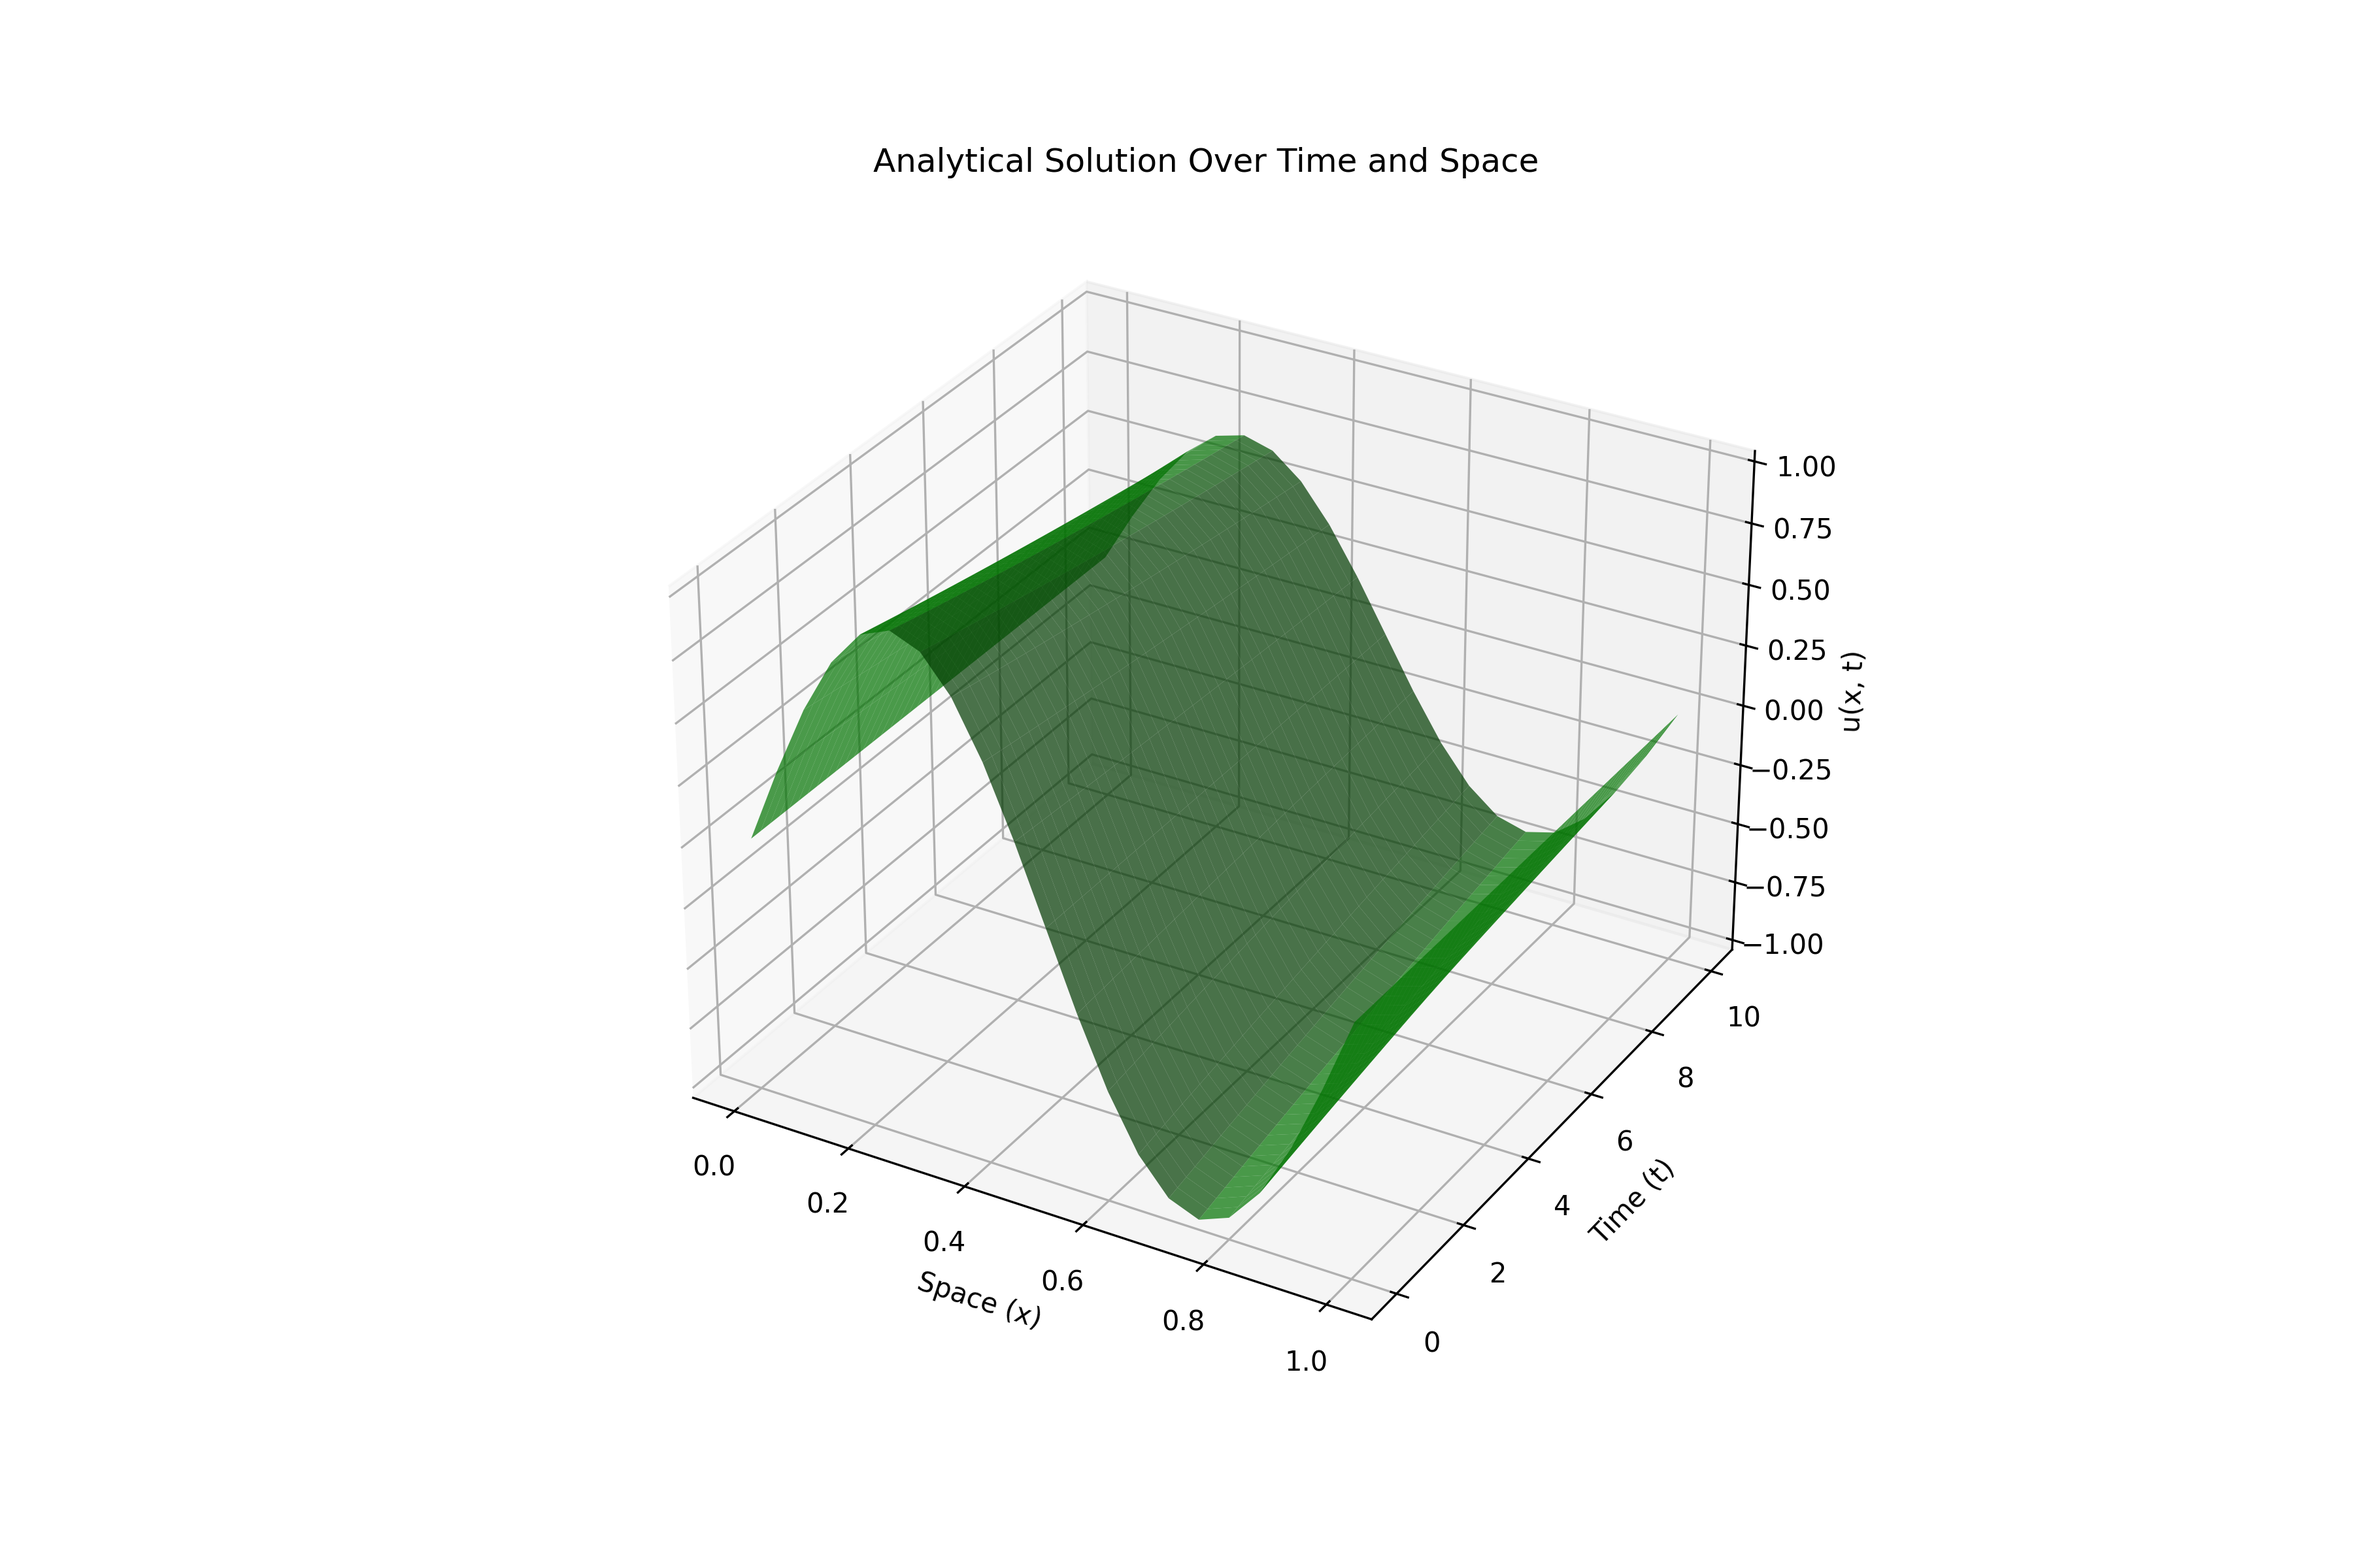
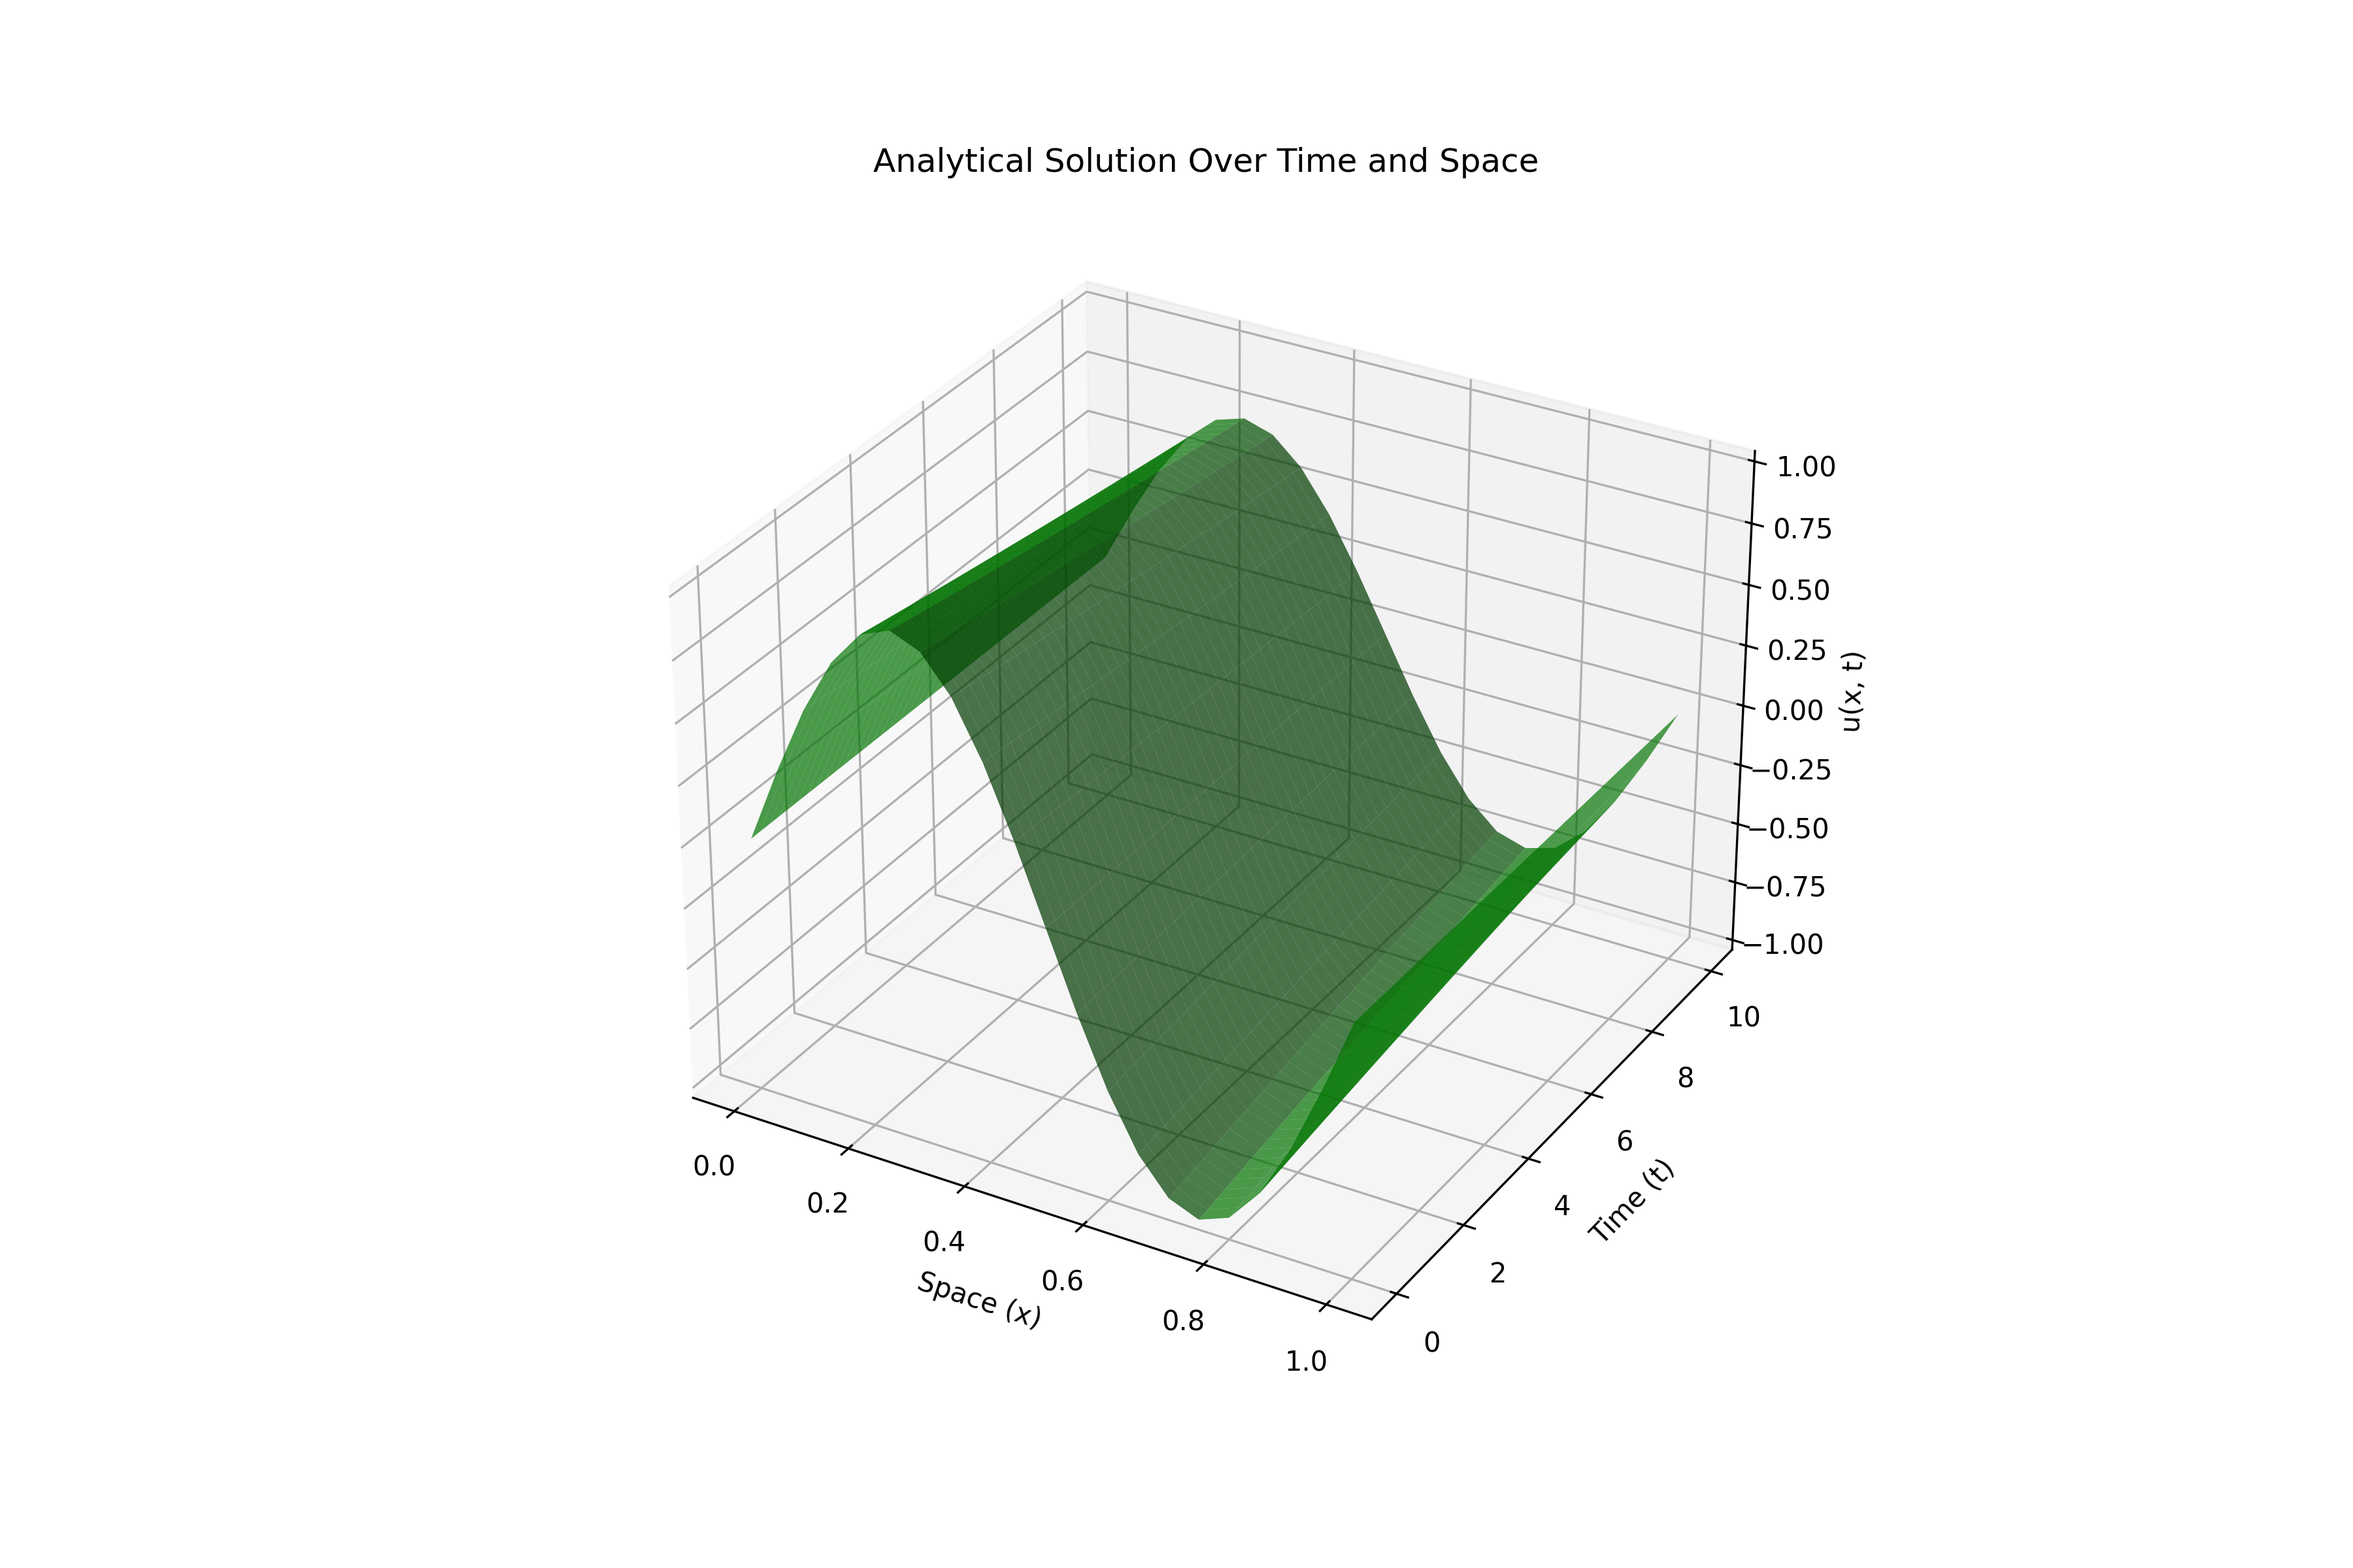
completed tut 4 and 5

diff --git a/Assignment 4/main.py b/Assignment 4/main.py
@@ -1,0 +1,110 @@
+import numpy as np
+import matplotlib.pyplot as plt
+from mpl_toolkits.mplot3d import Axes3D
+from matplotlib import cm
+
+# Input parameters
+im = 30  # vertical nodes
+jm = 60  # horizontal nodes
+SS = 10  # positive source strength
+SN = -10 # negative source strength
+iter = 1000
+
+# Initialize grid
+f = np.zeros((im, jm))
+S = np.zeros((im, jm))
+
+# Set sources
+S[14, 29] = SS  # Positive source (15,30)
+S[14, 44] = SN  # Negative source (15,45)
+
+# Dirichlet boundary conditions
+f[:, 0] = 10    # Entrance
+is_ = im//2     # Center index
+f[is_-1:is_+2, -1] = 0  # Exit opening
+
+# Main iteration loop
+for k in range(iter):
+    fold = f.copy()
+    
+    # Interior points
+    for i in range(1, im-1):
+        for j in range(1, jm-1):
+            f[i,j] = (f[i+1,j] + f[i-1,j] + f[i,j-1] + f[i,j+1] + S[i,j])/4
+    
+    # Von Neumann boundary conditions
+    # Upper and lower walls
+    f[0, :] = f[1, :]
+    f[-1, :] = f[-2, :]
+    
+    # End wall (except opening)
+    f[:is_-1, -1] = f[:is_-1, -2]
+    f[is_+2:, -1] = f[is_+2:, -2]
+    
+    # Calculate error
+    fer = f - fold
+
+# Calculate velocities using central differences
+u = np.zeros_like(f)
+v = np.zeros_like(f)
+
+# Interior points
+u[:, 1:-1] = -(f[:, 2:] - f[:, :-2])/(2)  # df/dx
+v[1:-1, :] = -(f[2:, :] - f[:-2, :])/(2)  # df/dy
+
+# Calculate velocity magnitude
+vel_mag = np.sqrt(u**2 + v**2)
+
+# Save individual plots
+fig = plt.figure(figsize=(20, 5))
+
+# Potential distribution
+ax1 = fig.add_subplot(141, projection='3d')
+X, Y = np.meshgrid(np.arange(jm), np.arange(im))
+surf1 = ax1.plot_surface(X, Y, f, cmap=cm.coolwarm)
+plt.colorbar(surf1, ax=ax1)
+ax1.set_title('Potential Distribution')
+ax1.set_xlabel('x')
+ax1.set_ylabel('y')
+ax1.set_zlabel('Potential')
+plt.savefig('potential_distribution.png', dpi=300, bbox_inches='tight')
+
+# Error distribution
+ax2 = fig.add_subplot(142, projection='3d')
+surf2 = ax2.plot_surface(X, Y, fer, cmap=cm.coolwarm)
+plt.colorbar(surf2, ax=ax2)
+ax2.set_title('Error Distribution')
+ax2.set_xlabel('x')
+ax2.set_ylabel('y')
+ax2.set_zlabel('Error')
+plt.savefig('error_distribution.png', dpi=300, bbox_inches='tight')
+
+# Velocity magnitude contour
+ax3 = fig.add_subplot(143)
+contour = ax3.contourf(X, Y, vel_mag, levels=20, cmap='viridis')
+plt.colorbar(contour, ax=ax3, label='Velocity Magnitude')
+ax3.set_title('Velocity Magnitude')
+ax3.set_xlabel('x')
+ax3.set_ylabel('y')
+plt.savefig('velocity_magnitude.png', dpi=300, bbox_inches='tight')
+
+# Velocity vectors
+ax4 = fig.add_subplot(144)
+skip = 2
+quiver = ax4.quiver(X[::skip, ::skip], Y[::skip, ::skip], 
+                   u[::skip, ::skip], v[::skip, ::skip],
+                   vel_mag[::skip, ::skip],
+                   scale=50, cmap='viridis')
+plt.colorbar(quiver, ax=ax4, label='Velocity Magnitude')
+ax4.set_title('Velocity Field')
+ax4.set_xlabel('x')
+ax4.set_ylabel('y')
+plt.savefig('velocity_field.png', dpi=300, bbox_inches='tight')
+
+# Save combined figure
+plt.tight_layout()
+plt.savefig('combined_plots.png', dpi=300, bbox_inches='tight')
+plt.show()
+
+# Print maximum velocity magnitude
+print(f"Maximum velocity magnitude: {np.max(vel_mag):.4f}")

diff --git a/Assignment 5/main.py b/Assignment 5/main.py
@@ -1,0 +1,105 @@
+import numpy as np
+import matplotlib.pyplot as plt
+from matplotlib.patches import Rectangle
+
+# Parameters
+Nx = 32
+L = 1
+Wall_Velocity = 1
+rho = 1
+mu = 0.01
+dt = 0.001
+maxIt = 50000
+maxe = 1e-7
+Re = rho * Wall_Velocity * L / mu
+
+# Grid setup
+Ny = Nx
+h = L/(Nx-1)
+x = np.linspace(0, L, Nx)
+y = np.linspace(0, L, Ny)
+X, Y = np.meshgrid(x, y)
+
+# Initialize arrays
+Vo = np.zeros((Nx, Ny))  # Vorticity
+St = np.zeros((Nx, Ny))  # Stream function
+u = np.zeros((Nx, Ny))   # x-velocity
+v = np.zeros((Nx, Ny))   # y-velocity
+
+# Main solver loop
+for iter in range(maxIt):
+    # Boundary conditions
+    Vo[0:Nx, Ny-1] = -2*St[0:Nx, Ny-2]/(h**2) - Wall_Velocity*2/h  # Top
+    Vo[0:Nx, 0] = -2*St[0:Nx, 1]/(h**2)                            # Bottom
+    Vo[0, 0:Ny] = -2*St[1, 0:Ny]/(h**2)                           # Left
+    Vo[Nx-1, 0:Ny] = -2*St[Nx-2, 0:Ny]/(h**2)                     # Right
+    
+    # Store old vorticity
+    Vop = Vo.copy()
+    
+    # Update vorticity (interior points)
+    i = slice(1, Nx-1)
+    j = slice(1, Ny-1)
+    ip = slice(2, Nx)
+    im = slice(0, Nx-2)
+    jp = slice(2, Ny)
+    jm = slice(0, Ny-2)
+    
+    Vo[i,j] = Vop[i,j] + dt * (
+        -1*(St[i,jp]-St[i,jm])/(2*h) * (Vop[ip,i]-Vop[im,j])/(2*h) +
+        (St[ip,j]-St[im,j])/(2*h) * (Vop[i,jp]-Vop[i,jm])/(2*h) +
+        (1/Re)*(Vop[ip,j]+Vop[im,j]-4*Vop[i,j]+Vop[i,jp]+Vop[i,jm])/(h**2)
+    )
+    
+    # Update stream function
+    St[i,j] = (Vo[i,j]*h**2 + St[ip,j] + St[i,jp] + St[i,jm] + St[im,j])/4
+    
+    # Check convergence
+    if iter > 10:
+        error = np.max(np.abs(Vo - Vop))
+        if error < maxe:
+            print(f"Converged after {iter} iterations")
+            break
+
+# Calculate velocities
+u[1:Nx-1, Ny-1] = Wall_Velocity
+u[i,j] = (St[i,jp]-St[i,jm])/(2*h)
+v[i,j] = (-St[ip,j]+St[im,j])/(2*h)
+
+# Plotting
+plt.figure(figsize=(15, 5))
+
+# U-velocity contour
+plt.subplot(131)
+plt.contourf(X, Y, u.T, levels=23, cmap='hsv')
+plt.colorbar(location='left')
+plt.title('U-velocity')
+plt.xlabel('x-location')
+plt.ylabel('y-location')
+plt.axis('equal')
+
+# Centerline velocity
+plt.subplot(132)
+plt.plot(y, u[Nx//2,:])
+plt.title('Centerline x-direction velocity')
+plt.xlabel('y/L')
+plt.ylabel('u/U')
+plt.grid(True)
+plt.axis('square')
+
+# Streamlines
+plt.subplot(133)
+N = 1000
+xstart = L * np.random.rand(N)
+ystart = L * np.random.rand(N)
+plt.streamplot(X, Y, u.T, v.T, start_points=np.column_stack((xstart, ystart)),
+              density=2, linewidth=0.5, color='k')
+plt.title('Stream Function')
+plt.xlabel('x-location')
+plt.ylabel('y-location')
+plt.axis('equal')
+
+plt.tight_layout()
+# Save the figure with high resolution
+plt.savefig('streamlines_plot.png', dpi=300, bbox_inches='tight')
+plt.show()

diff --git a/Assignment 3/main.py b/Assignment 3/main.py
@@ -22,7 +22,7 @@ u_initial = np.sin(2 * np.pi * x)
 
 # Analytical solution function
 def analytical_solution(x, t):
-    return np.sin(2 * np.pi * x) * np.exp(-4 * np.pi**2 * gamma * t)
+    return np.sin(2 * np.pi * x) * np.exp(3 * -np.pi**2 * gamma * t)
 
 # --------------------------
 # Forward Time Central Space (FTCS - Explicit)
